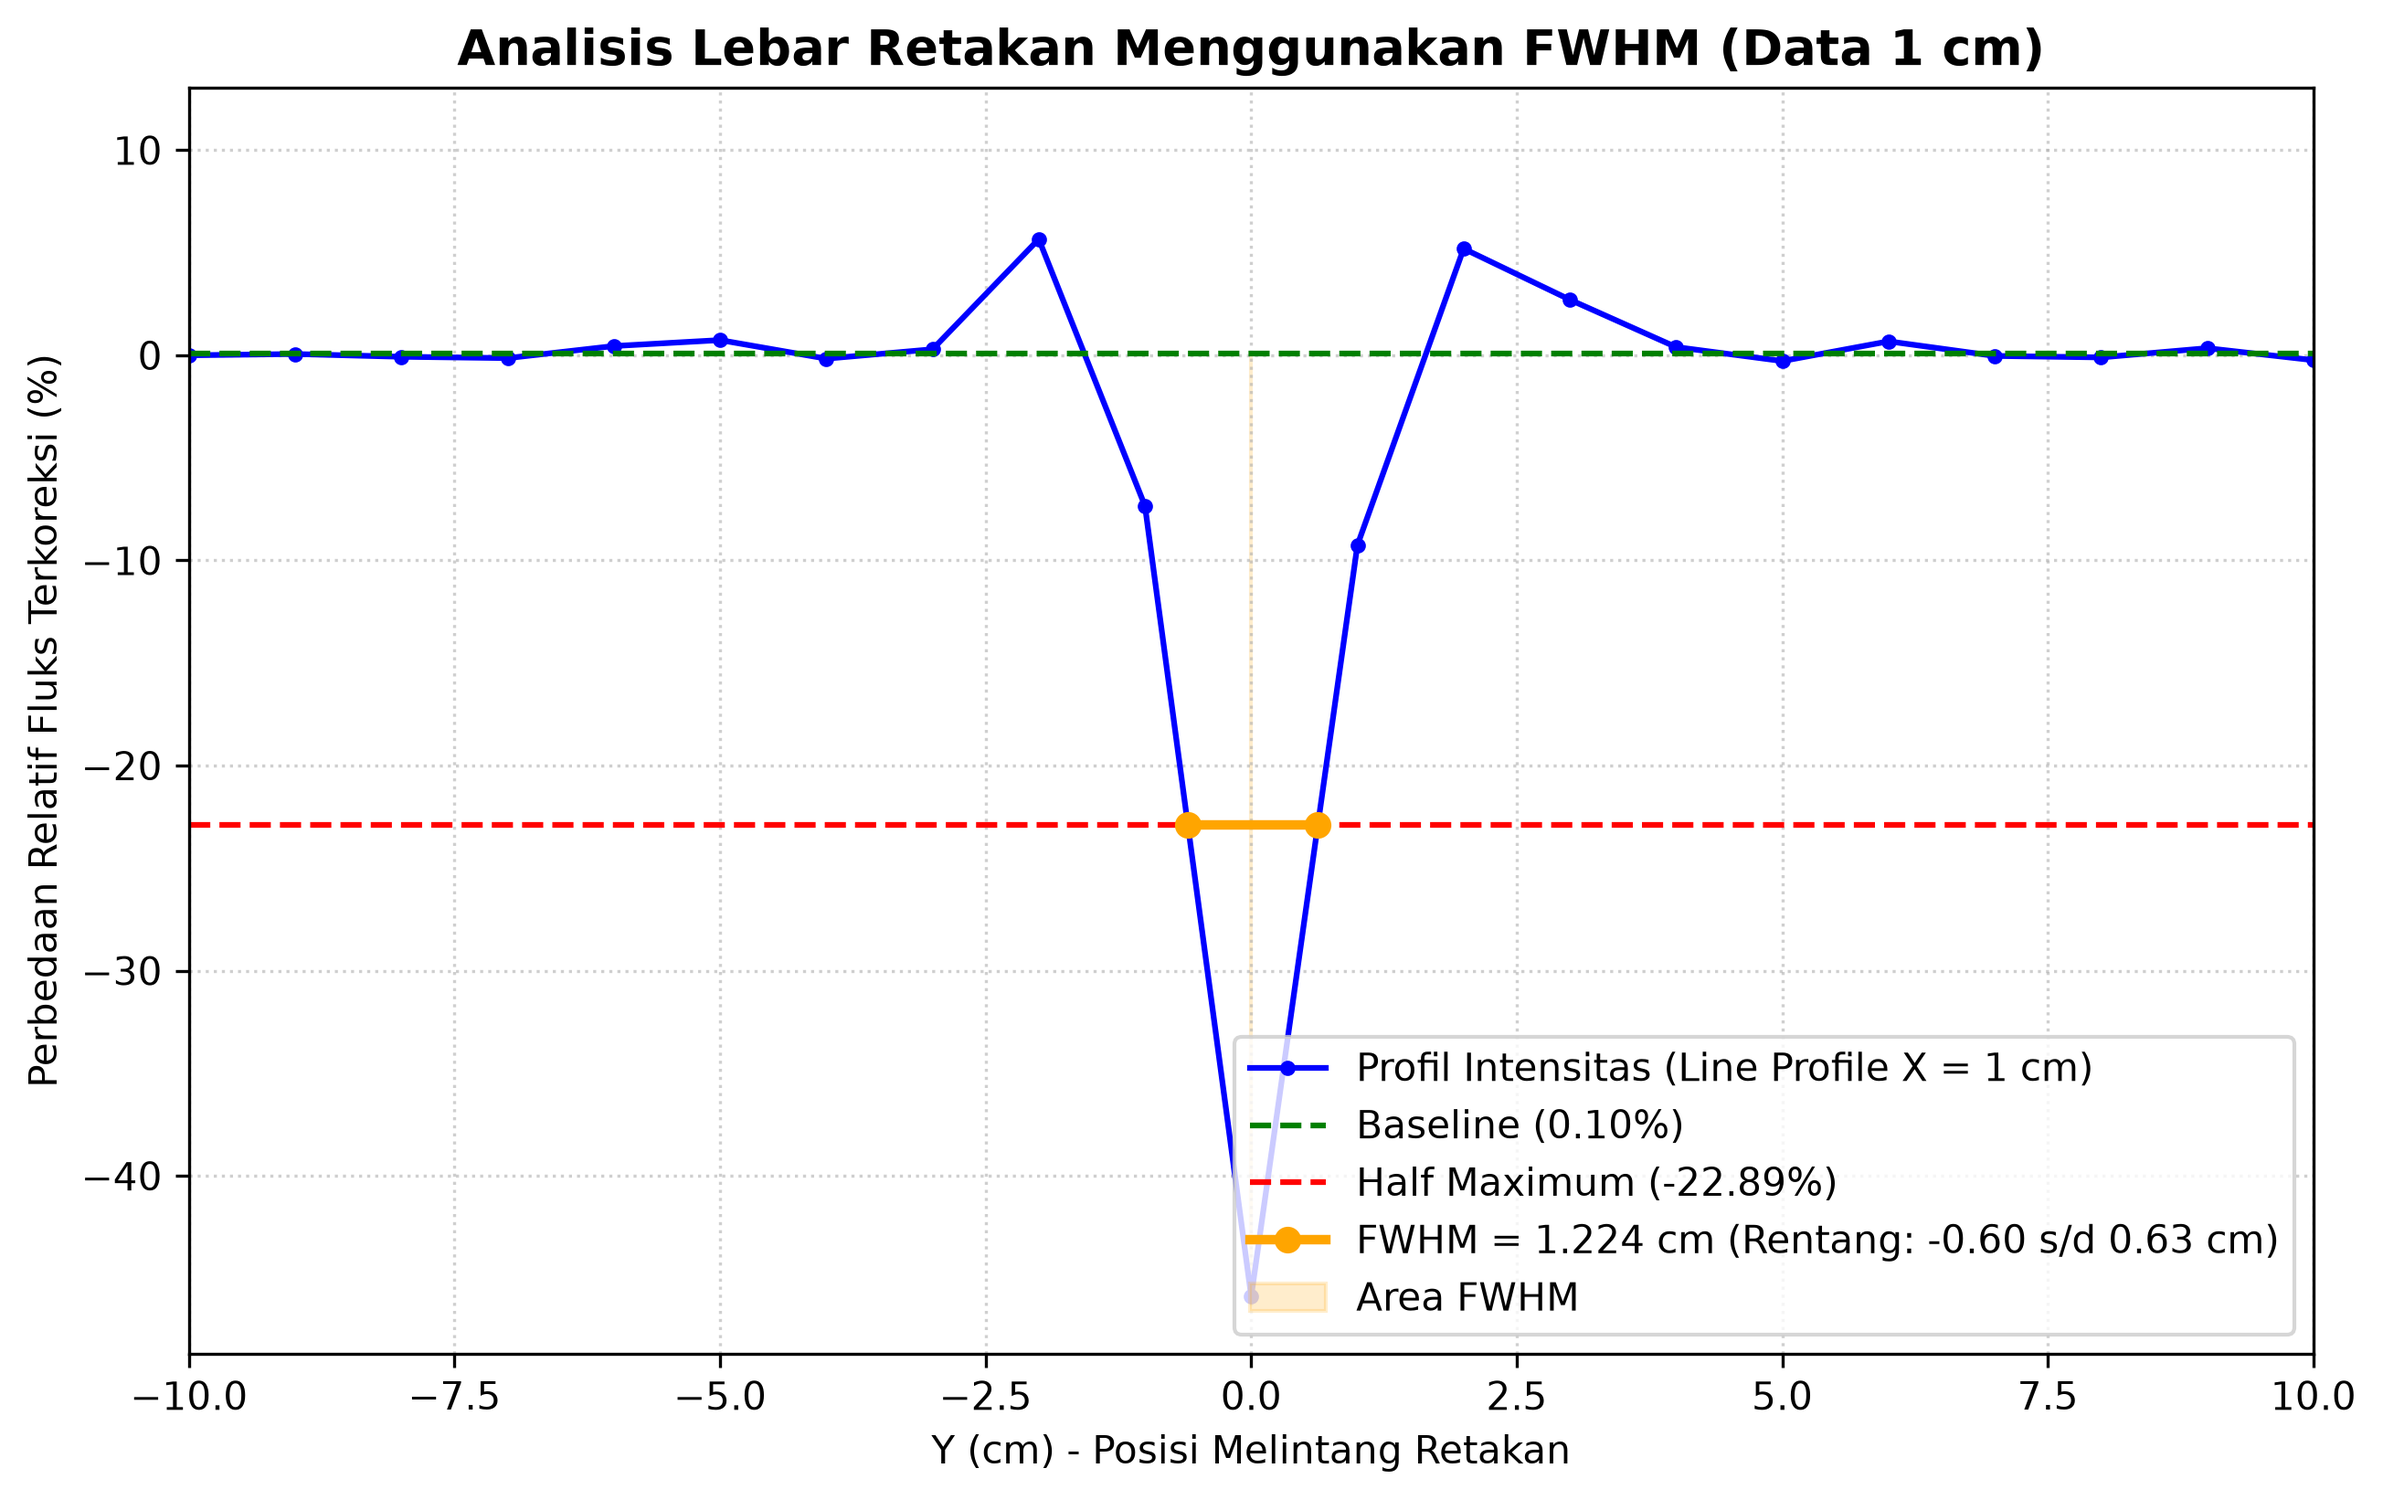
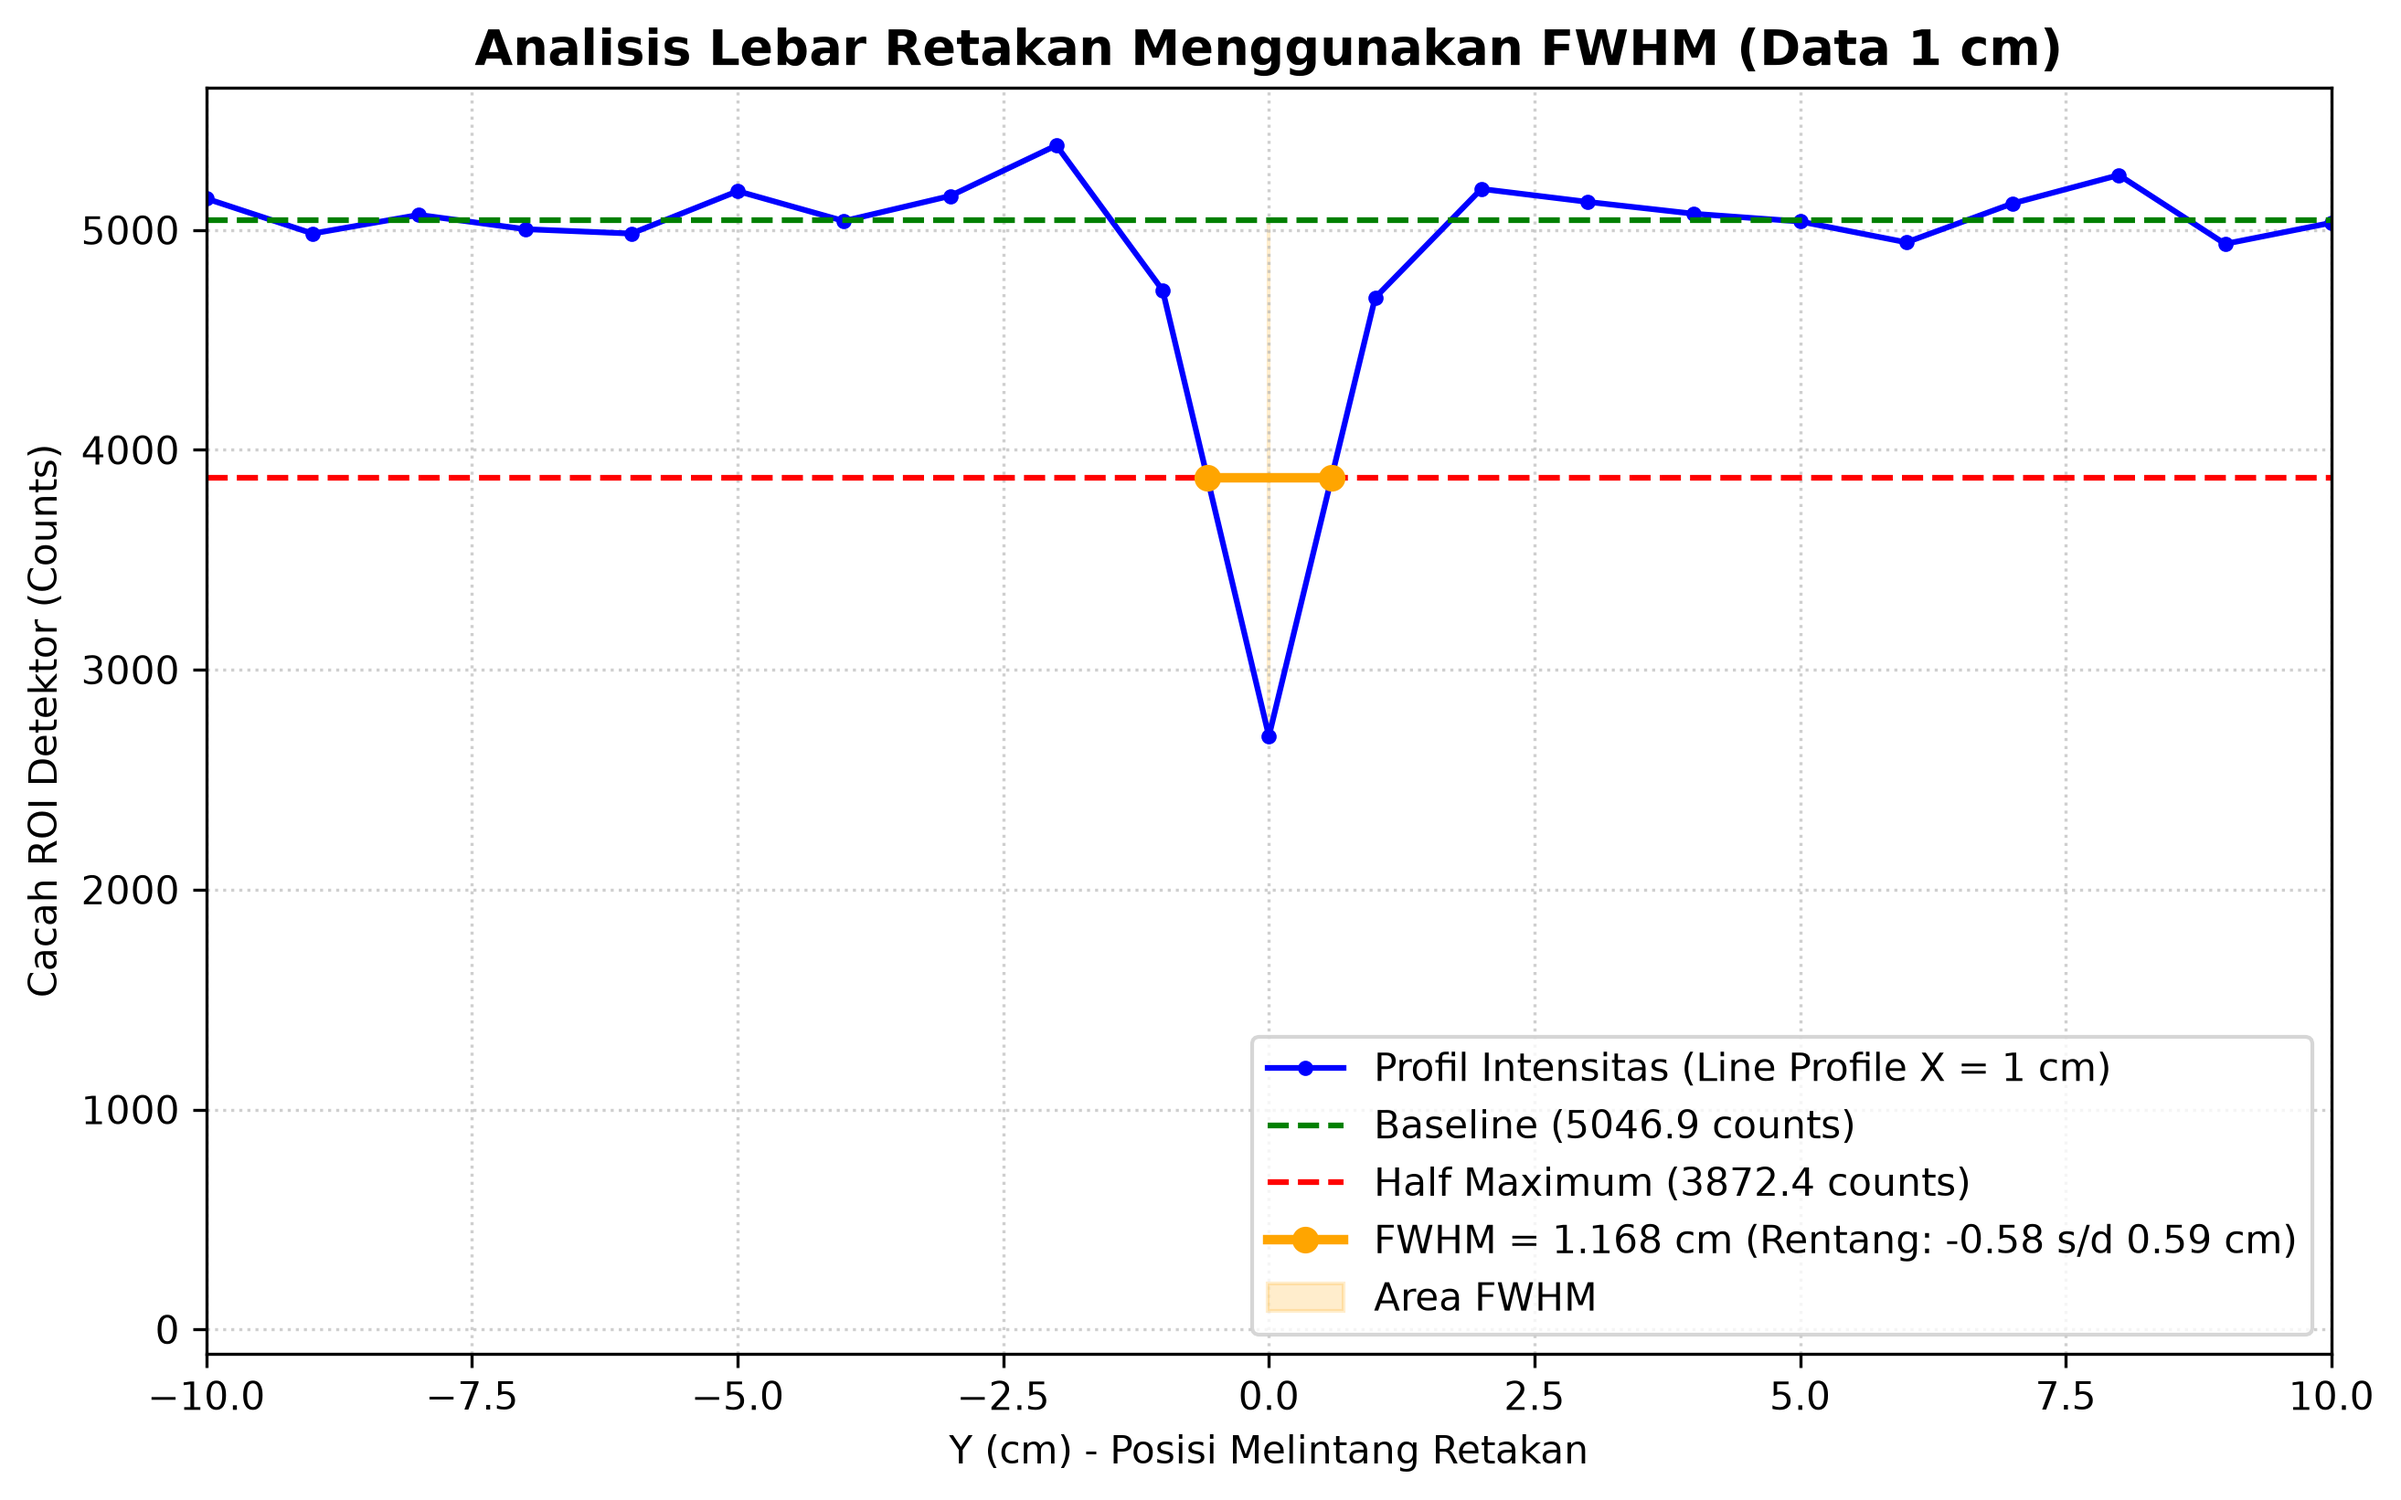
Coba fwhm lagi

diff --git a/kalkulasi_fwhm_0_9cm.py b/kalkulasi_fwhm_0_9cm.py
@@ -4,10 +4,7 @@ import pandas as pd
 import numpy as np
 import matplotlib.pyplot as plt
 
-def main():
-    csv_path = "/data/mahasiswa/ardian/gcb_project/gcb_hor/hasil_sementara/crack_normal_combined_relative_diff_1cm.csv"
-    output_img = "/data/mahasiswa/ardian/gcb_project/gcb_hor/hasil_sementara/fwhm_1cm_result.png"
-    
+def hitung_fwhm(csv_path, output_img, label_name):
     # 1. Load data
     df = pd.read_csv(csv_path)
     
@@ -38,31 +35,23 @@ def main():
     
     half_max = baseline + (peak_val - baseline) / 2.0
     
-    # Interpolasi Linear Sederhana untuk mencari titik potong di kiri dan kanan puncak
-    # Bagian kiri puncak (dari awal slice hingga peak_idx)
+    # Interpolasi Linear
     left_y = y_slice[:peak_idx+1]
     left_prof = profile_slice[:peak_idx+1]
     
-    # Bagian kanan puncak (dari peak_idx hingga akhir slice)
     right_y = y_slice[peak_idx:]
     right_prof = profile_slice[peak_idx:]
     
-    # Cari interpolasi linear untuk mencari di mana profile memotong half_max
-    # Karena np.interp membutuhkan koordinat x (dalam hal ini profil nilai) terurut naik,
-    # kita harus mengurutkannya terlebih dahulu sebelum melakukan interpolasi.
-    
-    # Sisi Kiri Puncak (nilai profil turun dari baseline ke peak_val)
     sort_left = np.argsort(left_prof)
     y1 = np.interp(half_max, left_prof[sort_left], left_y[sort_left])
     
-    # Sisi Kanan Puncak (nilai profil naik dari peak_val ke baseline)
     sort_right = np.argsort(right_prof)
     y2 = np.interp(half_max, right_prof[sort_right], right_y[sort_right])
     
     fwhm = abs(y2 - y1)
     
     print("="*50)
-    print(" ANALISIS FWHM DATA KERETAKAN 1 CM ".center(50, "="))
+    print(f" ANALISIS FWHM DATA KERETAKAN {label_name} ".center(50, "="))
     print(f"Posisi Retakan Terdeteksi: X = {target_x} cm, Y = {peak_y} cm")
     print(f"Nilai Drop Maksimum       : {peak_val:.1f} counts")
     print(f"Nilai Baseline            : {baseline:.1f} counts")
@@ -82,7 +71,7 @@ def main():
     plt.fill_between(y_slice, profile_slice, baseline, where=(y_slice >= y1) & (y_slice <= y2), 
                      color='orange', alpha=0.2, label='Area FWHM')
                           
-    plt.title("Analisis Lebar Retakan Menggunakan FWHM (Data 1 cm)", fontsize=13, fontweight='bold')
+    plt.title(f"Analisis Lebar Retakan Menggunakan FWHM (Data {label_name})", fontsize=13, fontweight='bold')
     plt.xlabel("Y (cm) - Posisi Melintang Retakan")
     plt.ylabel("Cacah ROI Detektor (Counts)")
     plt.xlim(-10, 10)
@@ -93,4 +82,6 @@ def main():
     print(f"Visualisasi FWHM berhasil disimpan ke: {output_img}")
 
 if __name__ == "__main__":
-    main()
+    csv_0_9 = "/data/mahasiswa/ardian/gcb_project/gcb_hor/hasil_sementara/crack_normal_combined_relative_diff_0_9cm.csv"
+    img_0_9 = "/data/mahasiswa/ardian/gcb_project/gcb_hor/hasil_sementara/fwhm_0_9cm_result.png"
+    hitung_fwhm(csv_0_9, img_0_9, "0.9 CM")
